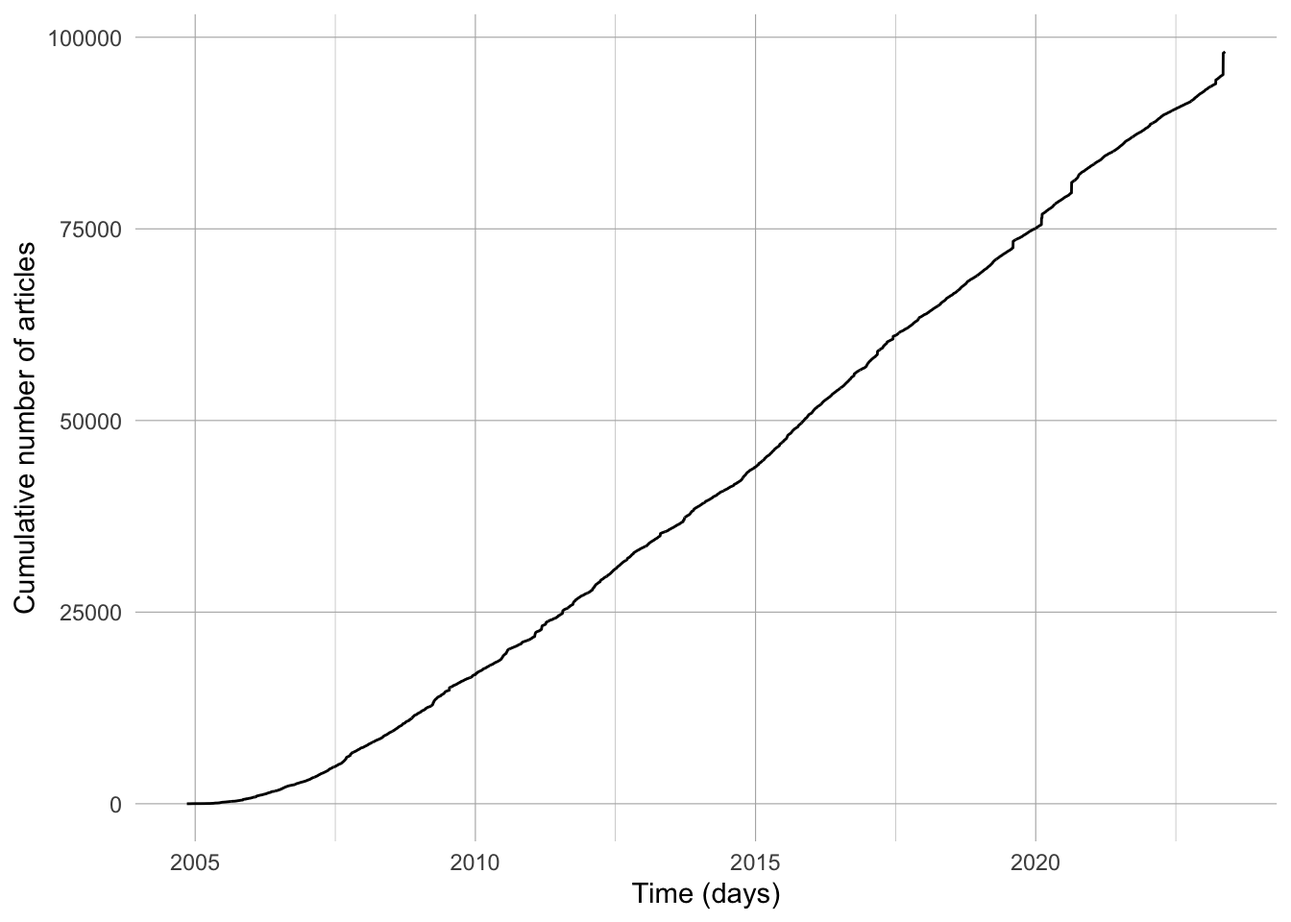
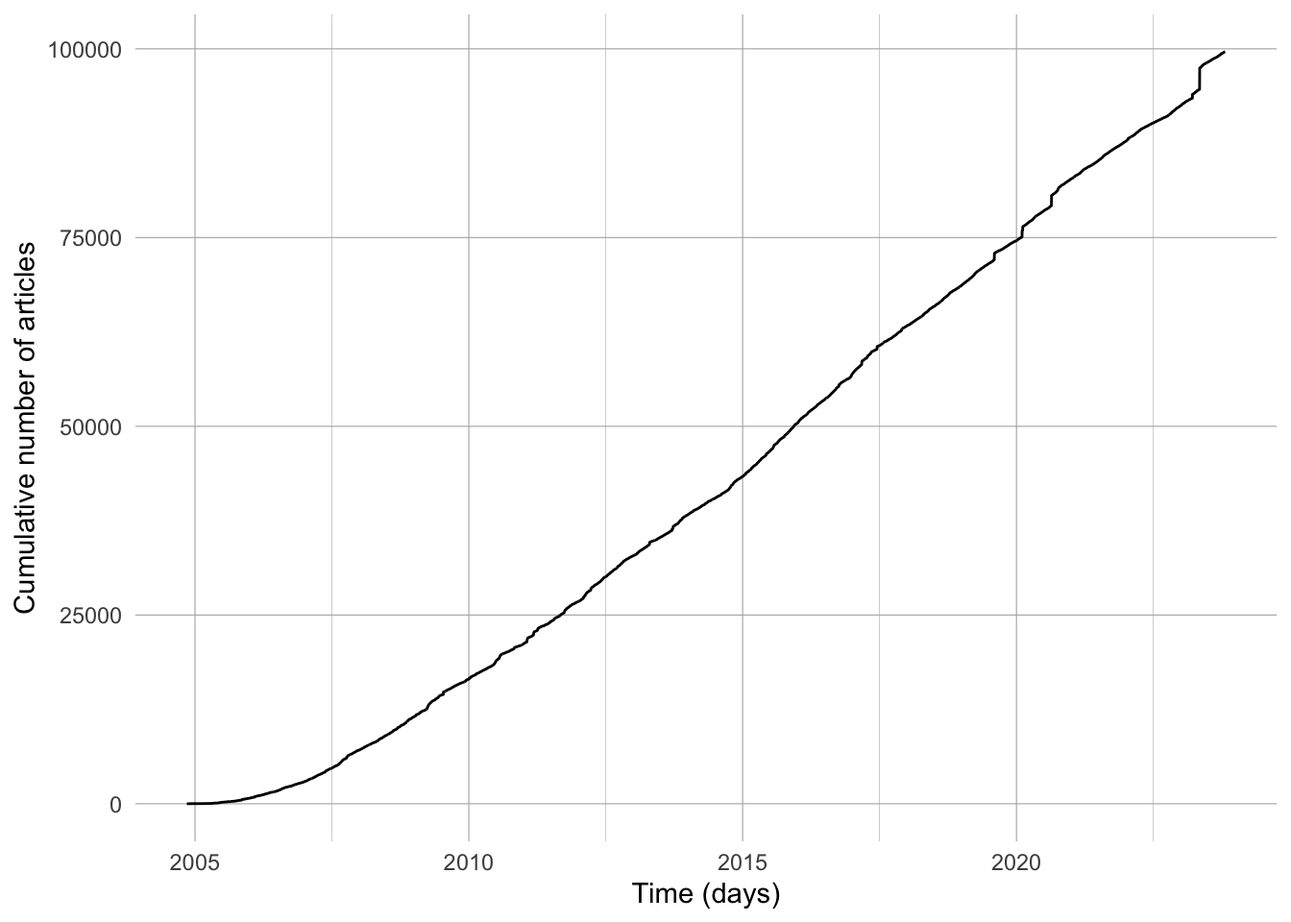
reported regenerated with cleaned data

diff --git a/docs/who-counts.html b/docs/who-counts.html
@@ -242,14 +242,14 @@ div.csl-indent {
 </div>
 </div>
 </div>
-<p>Category:Australian people has 9,220 subcategories, many of which are even farther from the root than the staff of UTS. We can get a sense of how vast this structure is by taking <a href="https://en.wikipedia.org/wiki/Distance_(graph_theory)#Related_concepts">diameter</a> of the category graph. In this case, the diameter is 11, which means that the most distant subcategory of <code>Category:Australian people</code> is 11 steps away. Such distant nodes are called ‘eccentric’ in graph theory. In this case, the most distant subcategory truly is eccentric: <a href="https://en.wikipedia.org/wiki/Category:Custard%20(band)%20compilation%20albums">Category:Custard (band) compilation albums</a> does not include articles about ‘Australian people’ at all, but about indie rock records. This case is extreme. The case of UTS staffmembers is more typical. If we consider all the articles that have been placed in <code>Category:Australian people</code> or its subcategories, we find that the subcategories used are on average 3.12 steps away from the root, with a standard deviation of 0.98. In the typical case, when an editor adds an article to an ‘Australian people’ subcategory, the subcategory is 2-4 steps away from the root. It seems likely that editors are mostly unaware of the category graph as a whole. Editors work locally, trying to find the best categorisations for their articles, while Wikipedia’s systems work globally, enforcing the hierarchical logic of the enormous and usually invisible category graph.</p>
+<p>Category:Australian people has 9,493 subcategories, many of which are even farther from the root than the staff of UTS. We can get a sense of how vast this structure is by taking <a href="https://en.wikipedia.org/wiki/Distance_(graph_theory)#Related_concepts">diameter</a> of the category graph. In this case, the diameter is 11, which means that the most distant subcategory of <code>Category:Australian people</code> is 11 steps away. Such distant nodes are called ‘eccentric’ in graph theory. In this case, the most distant subcategory truly is eccentric: <a href="https://en.wikipedia.org/wiki/Category:Custard%20(band)%20compilation%20albums">Category:Custard (band) compilation albums</a> does not include articles about ‘Australian people’ at all, but about indie rock records. This case is extreme. The case of UTS staffmembers is more typical. If we consider all the articles that have been placed in <code>Category:Australian people</code> or its subcategories, we find that the subcategories used are on average 3.17 steps away from the root, with a standard deviation of 0.95. In the typical case, when an editor adds an article to an ‘Australian people’ subcategory, the subcategory is 2-4 steps away from the root. It seems likely that editors are mostly unaware of the category graph as a whole. Editors work locally, trying to find the best categorisations for their articles, while Wikipedia’s systems work globally, enforcing the hierarchical logic of the enormous and usually invisible category graph.</p>
 <p>If <code>Category:Australian people</code> can include articles about indie rock albums, then the question arises: How many of the articles are actually biographies of people connected to Australia? If we can isolate these articles, then more detailed questions become possible: How are different kinds of people represented among Wikipedia’s ‘Australian’ biographies? Wikipedia itself does not clearly distinguish biographies from other kinds of article. To answer this question, we turn to its sister-project, Wikidata.</p>
 </section>
 <section id="wikidata-the-query-engine" class="level3">
 <h3 class="anchored" data-anchor-id="wikidata-the-query-engine">Wikidata: The query engine</h3>
 <p>To build a picture of the Australian <em>people</em> in Wikipedia, we queried Wikidata in two different ways.</p>
 <ol type="1">
-<li>We queried Wikidata for items representing Australian people</li>
+<li>We queried Wikidata for items representing Australian people, and then checked to see if those people had a biographical article in Wikipedia</li>
 <li>We fetched the Wikidata item for each article in <code>Category:Australian people</code>, and checked to see if the item was labelled ‘human’ in Wikidata</li>
 </ol>
 <p>It turns out that these two approaches return different sets of people, as we explain below. There are many people who have Wikipedia articles in <code>Category:Australian people</code> who are not clearly marked as ‘Australian’ in Wikidata. Likewise, there are many people who are marked as ‘Australian’ in Wikidata, but who lack a Wikipedia article in <code>Category:Australian people</code>.</p>
@@ -259,10 +259,9 @@ div.csl-indent {
 <li>They can be explicitly linked to Australia (<a href="https://www.wikidata.org/wiki/Q408">Q408</a>) through properties such as citizenship (<a href="https://www.wikidata.org/wiki/Property:P27">P27</a>), place of birth (<a href="https://www.wikidata.org/wiki/Property:P19">P19</a>) or place of death (<a href="https://www.wikidata.org/wiki/Property:P570">P570</a>); or</li>
 <li>They can be implicitly linked to Australia by being linked to a known database of Australians, such as the Dictionary of Australian Biography (<a href="https://www.wikidata.org/wiki/Property:P1907">P1907</a>), Indigenous Australia (<a href="https://www.wikidata.org/wiki/Property:P9246">P9246</a>), or Convict Records of Australia (<a href="https://www.wikidata.org/wiki/Property:P9919">P9919</a>)</li>
 </ol>
-<p>We queried Wikidata by 51 properties that denote Australianness. Together, these properties are linked to 75215 unique humans in the database.</p>
-<p>The Wikidata dataset and the Wikipedia dataset do not perfectly overlap. There are 14,509 people we found in our queries to Wikidata who lack a Wikipedia article in <code>Category:Australian People</code>. Likewise, there are 37,401 articles in <code>Category:Australian people</code> which did not turn up when we queried Wikidata. Of course, many of these 37,401 articles do not represent individual people. We have already seen that one of the articles represents a compilation album by the Melbourne band Custard. There are also many lists, general articles about groups of people and other miscellaneous articles in <code>Category:Australian people</code>. How can the datasets be compared?</p>
-<p>To make the datasets comparable, we filtered out non-biographies from the Wikipedia dataset. To do this, we retrieved the Wikidata item for each Wikipedia article, and checked if it had property P31(Q5), ‘instance of: human’. This left 80,212 Wikipedia articles from <code>Category:Australian people</code> which we were confident are biographies. These biographies overlap substantially, but not perfectly, with the set of people we found on Wikidata by querying Australian properties (<a href="#fig-biography-overlap-table">Figure&nbsp;3</a>).</p>
-<p><strong>MF: The table is currently incorrect. There should be another 10,000 or so in the bottom-left cell. In my various efforts to combine and co-ordinate our different datasets, I have left out the ~11,000 Wikidata records that didn’t make it into our original queries to Wikidata. I need to get the page assessment data for these and re-integrate them into our combined dataset.</strong></p>
+<p>We queried Wikidata by 45 properties that denote Australianness. Using these properties, we were able to identify 85,773 Wikidata items representing Australian people. Of these Wikidata items, 63,692 items had a corresponding Wikipedia article.</p>
+<p>We then used Wikidata to determine which of the 110,296 articles in <code>Category:Australian people</code> were biographies (as opposed to articles about events, things, or groups of people). To do this, we fetched the Wikidata item for each Wikipedia article in the dataset, then checked to see if it had property P31(Q5), ‘instance of: human’. When we did this, 81,493 articles were left.</p>
+<p>The two datasets overlap substantially, but not completely (<a href="#fig-biography-overlap-table">Figure&nbsp;3</a>). There are thousands of biographical articles in <code>Category:Australian people</code> whose Wikidata items do not clearly identify them as ‘Australian’. Likewise, there are hundreds of Wikidata items whose corresponding Wikipedia articles do <em>not</em> appear in <code>Category:Australian people</code>, even though the Wikidata item has P31(Q5), ‘instance of:human’, and also contains one or more ‘markers of Australianness’.</p>
 <div class="cell">
 <div id="fig-biography-overlap-table" class="quarto-figure quarto-figure-center anchored">
 <figure class="figure">
@@ -270,47 +269,37 @@ div.csl-indent {
 <table class="table table-striped" style="margin-left: auto; margin-right: auto;">
 <thead>
 <tr>
-<th style="empty-cells: hide;border-bottom:hidden;" colspan="1">
-</th>
-<th style="border-bottom:hidden;padding-bottom:0; padding-left:3px;padding-right:3px;text-align: center; " colspan="2">
-<div style="border-bottom: 1px solid #ddd; padding-bottom: 5px; ">
-In Wikidata set?
-</div>
-</th>
-</tr>
-<tr>
 <th style="text-align:left;">
-In Wikipedia Set?
+Dataset
 </th>
 <th style="text-align:right;">
-TRUE
-</th>
-<th style="text-align:right;">
-FALSE
+Number of Articles
 </th>
 </tr>
 </thead>
 <tbody>
 <tr>
 <td style="text-align:left;">
-TRUE
+Person only found by querying Wikidata
 </td>
 <td style="text-align:right;">
-61697
-</td>
-<td style="text-align:right;">
-18515
+1520
 </td>
 </tr>
 <tr>
 <td style="text-align:left;">
-FALSE
+Person only found in <code>Category:Australian people</code>
 </td>
 <td style="text-align:right;">
-1525
+19321
+</td>
+</tr>
+<tr>
+<td style="text-align:left;">
+Person found in both datasets
 </td>
 <td style="text-align:right;">
-NA
+62172
 </td>
 </tr>
 </tbody>
@@ -329,7 +318,7 @@ NA
 <p>We have seen how difficult it is to judge whether someone is ‘Australian’. This difficulty has two sides: <strong>space</strong> and <strong>time</strong>.</p>
 <p>In <strong>space</strong>, it is difficult to judge whether a person is close enough to Australia to count as Australian. At one end is someone who is born, lives and dies in Australia, such as <a href="https://en.wikipedia.org/wiki/Oodgeroo_Noonuccal">Oodgeroo Noonuccal</a>. At the other end of the spectrum is someone who has only a passing cultural or economic connection to Australia, such as <a href="https://en.wikipedia.org/wiki/Steve_Wozniak">Steve Wozniak</a>.</p>
 <p>In <strong>time</strong>, it is difficult to judge when in history it becomes reasonable to describe someone as ‘Australian’. The term ‘Terra Australis’ (‘Southern Land’) was coined in the 16th century, before Europeans knew about either Australia or Antarctica. In the end, neither Australia nor Antarctica matched European expectations about the ‘Southern Land’, though Australia, being the first that Europeans visited, acquired the name. New South Wales was invaded by the British in 1788. The term ‘Australia’ was substituted for ‘Terra Australis’ in 1813. The colonies of Australia federated into a single Commonwealth in 1901. The resulting Commonwealth of Australia only achieved full independence from Britain in 1988. Of course, human occupation predates the British invasion by tens of thousands of years. In the course of that human occupation, the very shape of the Australian landmass has varied. 10,000 years ago, the Australian mainland, Papua New Guinea and Tasmania formed a single contiguous landmass that geologers call <a href="https://en.wikipedia.org/wiki/Sahul">Sahul</a>. Are all the people who occupied Sahul at any point in time ‘Australians’? Or can only residents or citizens of the country ‘Australia’ be so named? Like space, time wreaks havoc on the category ‘Australian’.</p>
-<p>Wikidata’s contributors are aware of these difficulties. The simplest way to mark someone as ‘Australian’ in Wikidata is to give ‘Australia’ as the person’s ‘country of citizenship’ (<a href="https://www.wikidata.org/wiki/Property:P27">P27</a>). Our dataset contains 58,846 ‘Australian citizens’ according to P27. A glance at <a href="https://www.wikidata.org/wiki/Property_talk:P27">the Talk page for P27</a> reveals that Wikimedians are keenly aware of the difficulties of space and time.</p>
+<p>Wikidata’s contributors are aware of these difficulties. The simplest way to mark someone as ‘Australian’ in Wikidata is to give ‘Australia’ as the person’s ‘country of citizenship’ (<a href="https://www.wikidata.org/wiki/Property:P27">P27</a>). Our dataset contains 59,259 ‘Australian citizens’ according to P27. A glance at <a href="https://www.wikidata.org/wiki/Property_talk:P27">the Talk page for P27</a> reveals that Wikimedians are keenly aware of the difficulties of space and time.</p>
 <p>The user Ghouston clearly clearly articulated the problem of time in a post from 2018:</p>
 <blockquote class="blockquote">
 <p>It’s not easy. Australian citizenship didn’t exist before 1949, yet Australia as a federation has existed since 1901 and the term “Australian” was in use in the 19th century. To say that the United Kingdom was created in 1927 or the Netherlands perhaps in 1815 or 1945 or China in 1949 is to ignore much of the history of these countries as states.</p>
@@ -363,7 +352,7 @@ The ADB includes anyone who has made a significant contribution to the Australia
 </blockquote>
 <p>The AusStage database, meanwhile, <a href="https://www.ausstage.edu.au/pages/learn/data-scope">records any person who ‘contributed’ in some way to a theatrical performance in Australia, or to an overseas performance of an Australian theatrical work</a>. AusStage and the Australian Dictionary of Biography provide very broad markers of Australianness. By contrast, the <a href="https://www.parliament.vic.gov.au/about/people-in-parliament/re-member/form/27">Re-Member database of the Parliament of Victoria</a> provides a stricter marker of a person’s Australianness. To appear in Re-Member, a person must be a former member of the Parliament of Victoria. We identified dozens of other databases that indicated ‘Australianess’ in Wikidata. When a Wikimedian links a person to the Australian Dictionary of Biography (<a href="https://www.wikidata.org/wiki/Property:P1907">P1907</a>), AusStage (<a href="https://www.wikidata.org/wiki/Property:P8292">P8292</a>), Re-Member (<a href="https://www.wikidata.org/wiki/Property:P8633">P8633</a>), or some other database of Australians, the linked database will encode a different answer to the question ‘Who Counts as Australian?’</p>
 <p>This raises the question: how do these different properties overlap in Wikidata? Are there some markers of Australianness that tend to go together? Are there others that exclude each other? For example, we might assume that if a person is linked to the Convict Records of Australia database (<a href="https://www.wikidata.org/wiki/Property:P9919">P9919</a>), they should not usually have Australia as their place of birth, since the great majority of convicts were transported from Britain and Ireland, rather than between the colonies.</p>
-<p>To explore the connection between different markers of Australianness, we generated a correlation plot between the 20 most common Wikidata properties of the 51 that we queried (<a href="#fig-wikidata-property-matrix">Figure&nbsp;5</a>). A red square indicates a positive correlation between two Wikidata properties: for example, a person with an <a href="https://www.wikidata.org/wiki/Property:P1907">Australian Dictionary of Biography ID</a> (<code>aus_dictionary_bio</code>) is highly likely also to have a <a href="https://www.wikidata.org/wiki/Property:P9159">People Australia ID</a> (<code>people_of_aus</code>). A blue square indicates a negative correlation between two properties: for example, a person marked as a citizen of Australia is highly unlikely to have been assigned an <a href="https://www.wikidata.org/wiki/Property:P3546">AustralianFootball.com ID</a> (<code>aus_football</code>).</p>
+<p>To explore the connection between different markers of Australianness, we generated a correlation plot between the 20 most common Wikidata properties of the 45 that we queried (<a href="#fig-wikidata-property-matrix">Figure&nbsp;5</a>). A red square indicates a positive correlation between two Wikidata properties: for example, a person with an <a href="https://www.wikidata.org/wiki/Property:P1907">Australian Dictionary of Biography ID</a> (<code>aus_dictionary_bio</code>) is highly likely also to have a <a href="https://www.wikidata.org/wiki/Property:P9159">People Australia ID</a> (<code>people_of_aus</code>). A blue square indicates a negative correlation between two properties: for example, a person marked as a citizen of Australia is highly unlikely to have been assigned an <a href="https://www.wikidata.org/wiki/Property:P3546">AustralianFootball.com ID</a> (<code>aus_football</code>).</p>
 <div class="cell">
 <div class="cell-output-display">
 <div id="fig-wikidata-property-matrix" class="quarto-figure quarto-figure-center anchored">
@@ -376,13 +365,13 @@ The ADB includes anyone who has made a significant contribution to the Australia
 </div>
 <p>Only a few of the properties are correlated, and there are only a couple of strong correlations in the matrix.</p>
 <p>Many of the strong correlations reflect relationships between the databases on which Wikidata relies for information. For example, it is not surprising to see a strong correlation between Australian Dictionary of Biography ID (<code>aus_dictionary_bio</code>), Labour Australia ID (<code>labour_of_aus</code>), People Australia ID (<code>people_of_aus</code>) and Obituaries of Australia ID (<code>obit_of_aus</code>). These four databases are all run by the National Centre for Biography at the Australian National University, and are tightly interconnected. Every person in Obituaries Australia, Labour Australia or the ADB automatically receives a People Australia ID.</p>
-<p>Other strong correlations represent a similarity of subject-matter. For instance, three Wikidata properties link to databases of Australian artists (<code>nat_gallery_vic_artist</code>, <code>aus_printmakers</code>, <code>design_and_art_aus</code> [bug - wrongly appears here as <code>Vic_parliament_aus</code>]). A person who has an ID in one of these external databases is likely to have an ID available in the others. Similar explanations apply to sporting databases (<code>atheltics_aus</code> and <code>aus_olympics</code>) and newspaper databases (<code>trove_aus</code>, <code>obit_of_aus</code>).</p>
+<p>Other strong correlations represent a similarity of subject-matter. For instance, three Wikidata properties link to databases of Australian artists (<code>nat_gallery_vic_artist</code>, <code>aus_printmakers</code>, <code>design_and_art_aus</code>). A person who has an ID in one of these external databases is likely to have an ID available in the others. Similar explanations apply to sporting databases (<code>atheltics_aus</code> and <code>aus_olympics</code>) and newspaper databases (<code>obit_of_aus</code>).</p>
 <p>Overall, the lack of correlation between the properties reflects the heterogeneous nature of Wikidata. It is a vast and exceptionally flexible database, and it is possible for different communities of contributors to build up data in quite unrelated areas. This is illustrated nowhere better than in the negative correlation between AustralianFootball.com ID and the other Wikidata properties. Fans of Australian Rules Football have painstakingly entered data about hundreds of professional footballers into Wikidata, without troubling to mark these records with other properties such as Trove ID or citizenship of Australia. The shape of Wikidata could easily change if another committed group of editors decided to document their own subculture in the database. ‘Australian’ is an extremely uneven and inconsistent idea in Wikidata.</p>
 </section>
 <section id="gender" class="level3">
 <h3 class="anchored" data-anchor-id="gender">Gender</h3>
 <p>Although it is impossible to provide a unitary definition for ‘Australian’ in Wikidata and Wikipedia, we have shown that it is possible to derive a large list of people who are marked as ‘Australian’ in some way across the encyclopaedia and database. What is the composition of this list? We first consider the gendered composition of the dataset, before turning to the representation of <a href="#indigeneity">Indigenous Australians and Torres Strait Islander peoples</a> in the next section.</p>
-<p>To determine the gender of a person in our dataset, we rely on the Wikidata property <a href="https://www.wikidata.org/wiki/Property:P21">P21:Sex or gender</a>. In our dataset, nearly all records have a sex or gender recorded (<a href="#fig-genders-in-dataset">Figure&nbsp;6</a>). Only 26 records lack a <code>P21</code> statement about their sex or gender, along with a single record (for the <a href="http://www.wikidata.org/entity/Q3374318">Port Jackson Painter</a>), whose gender is unknown and whose sex or gender currently appears as the unsightly <em>http://www.wikidata.org/.well-known/genid/0de4c5a80b57262088a20354b318e7f9</em>.</p>
+<p>To determine the gender of a person in our dataset, we rely on the Wikidata property <a href="https://www.wikidata.org/wiki/Property:P21">P21:Sex or gender</a>. In our dataset, nearly all records have a sex or gender recorded (<a href="#fig-genders-in-dataset">Figure&nbsp;6</a>). Only 2065 records lack a <code>P21</code> statement about their sex or gender, along with a single record (for the <a href="">Port Jackson Painter</a>), whose gender is unknown and whose sex or gender currently appears as the unsightly **.</p>
 <div class="cell">
 <div id="fig-genders-in-dataset" class="quarto-figure quarto-figure-center anchored">
 <figure class="figure">
@@ -401,10 +390,18 @@ Total
 <tbody>
 <tr>
 <td style="text-align:left;">
+faʻafafine
+</td>
+<td style="text-align:right;">
+1
+</td>
+</tr>
+<tr>
+<td style="text-align:left;">
 female
 </td>
 <td style="text-align:right;">
-16205
+23557
 </td>
 </tr>
 <tr>
@@ -412,7 +409,7 @@ female
 genderfluid
 </td>
 <td style="text-align:right;">
-6
+7
 </td>
 </tr>
 <tr>
@@ -420,15 +417,7 @@ genderfluid
 genderqueer
 </td>
 <td style="text-align:right;">
-1
-</td>
-</tr>
-<tr>
-<td style="text-align:left;">
-http://www.wikidata.org/.well-known/genid/0de4c5a80b57262088a20354b318e7f9
-</td>
-<td style="text-align:right;">
-1
+3
 </td>
 </tr>
 <tr>
@@ -436,7 +425,7 @@ http://www.wikidata.org/.well-known/genid/0de4c5a80b57262088a20354b318e7f9
 intersex
 </td>
 <td style="text-align:right;">
-2
+3
 </td>
 </tr>
 <tr>
@@ -452,15 +441,7 @@ intersex woman
 male
 </td>
 <td style="text-align:right;">
-65432
-</td>
-</tr>
-<tr>
-<td style="text-align:left;">
-male organism
-</td>
-<td style="text-align:right;">
-2
+79386
 </td>
 </tr>
 <tr>
@@ -468,7 +449,7 @@ male organism
 non-binary
 </td>
 <td style="text-align:right;">
-25
+32
 </td>
 </tr>
 <tr>
@@ -476,7 +457,7 @@ non-binary
 trans man
 </td>
 <td style="text-align:right;">
-4
+5
 </td>
 </tr>
 <tr>
@@ -484,7 +465,7 @@ trans man
 trans woman
 </td>
 <td style="text-align:right;">
-29
+31
 </td>
 </tr>
 <tr>
@@ -492,7 +473,7 @@ trans woman
 transgender
 </td>
 <td style="text-align:right;">
-3
+2
 </td>
 </tr>
 <tr>
@@ -500,7 +481,7 @@ transgender
 NA
 </td>
 <td style="text-align:right;">
-26
+2065
 </td>
 </tr>
 </tbody>
@@ -511,7 +492,7 @@ NA
 </div>
 </div>
 <p><span class="citation" data-cites="weathington_queer_2023">Weathington and Brubaker (<a href="#ref-weathington_queer_2023" role="doc-biblioref">2023</a>)</span> have strongly critiqued Wikidata’s representation of sex and gender, observing that “Queer identities are recorded in a database in clunky, inaccurate, or self-contradictory ways” [p.&nbsp;2] and that the database ignores the individual’s right to determine their own sexual presentation. Nonetheless, we are compelled to rely on Wikidata’s representation of individuals’ sex and/or gender if we wish to assess its representation of human diversity in Australia. To this end, we categorise our dataset into three broad groups: <code>Male</code>, <code>Female</code> and <code>Trans, Non-Binary or Intersex</code>. While we may assume that most of those marked as ‘male’ or ‘female’ are <em>cis</em>-male or -female, we cannot determine this from the available data, and so opt for the less specific ‘male’ and ‘female’.</p>
-<p><code>Female</code> biographies are clearly under-represented among Wikipedia’s Australian articles (<a href="#fig-genders-in-dataset">Figure&nbsp;6</a>). The gap between <code>Male</code> and <code>Female</code> biographies appears to have remained constant over time (<a href="#fig-gender-by-page-creation">Figure&nbsp;7</a>). Viewing the data on a logarithmic scale emphasise the parallel track of <code>Male</code> and <code>Female</code> biographies in Australian Wikipedia, while also allowing us to visualise the similar growth of <code>Trans, Non-Binary or Intersex</code> biographies (<a href="#fig-gender-by-page-creation-log">Figure&nbsp;8</a>).</p>
+<p><code>Female</code> biographies are clearly under-represented among Wikipedia’s Australian articles. (<a href="#fig-genders-in-dataset">Figure&nbsp;6</a>) shows all Wikipedia biographies that appear in <code>Category:Australian people</code>, or whose Wikidata item contains a marker of Australianness, categories by gender. The gap between <code>Male</code> and <code>Female</code> biographies appears to have remained constant over time (<a href="#fig-gender-by-page-creation">Figure&nbsp;7</a>). Viewing the data on a logarithmic scale emphasise the parallel track of <code>Male</code> and <code>Female</code> biographies in Australian Wikipedia, while also allowing us to visualise the similar growth of <code>Trans, Non-Binary or Intersex</code> biographies (<a href="#fig-gender-by-page-creation-log">Figure&nbsp;8</a>).</p>
 <div class="cell">
 <div class="cell-output-display">
 <div id="fig-gender-by-page-creation" class="quarto-figure quarto-figure-center anchored">
@@ -534,6 +515,13 @@ NA
 </div>
 <p>Not only are male, female and LGBTQI+ Australians represented in different numbers in the encyclopaedia, they are represented by different words. To show this, we downloaded the introductions of each article in the encyclopaedia, and used the tf-idf statistic to determine which words were most distinctive for each group of biographies. Which words tend to appear more often in the introductions of articles about <code>Male</code>, <code>Female</code> and <code>Trans, Non-Binary and Intersex</code> Australians?</p>
 <div class="cell">
+<div class="cell-output cell-output-stderr">
+<pre><code>Warning in left_join(., gender_data, by = "pageid"): Detected an unexpected many-to-many relationship between `x` and `y`.
+ℹ Row 681 of `x` matches multiple rows in `y`.
+ℹ Row 81494 of `y` matches multiple rows in `x`.
+ℹ If a many-to-many relationship is expected, set `relationship =
+  "many-to-many"` to silence this warning.</code></pre>
+</div>
 <div class="cell-output-display">
 <div id="fig-intro-words-by-gender" class="quarto-figure quarto-figure-center anchored">
 <figure class="figure">
@@ -579,6 +567,9 @@ Watchers (mean)
 <th style="text-align:left;">
 Weeks since last edit
 </th>
+<th style="text-align:left;">
+Good/Featured
+</th>
 </tr>
 </thead>
 <tbody>
@@ -590,19 +581,22 @@ Trans, Non-Binary or Intersex
 69
 </td>
 <td style="text-align:left;">
-13919.8
+13644.7
 </td>
 <td style="text-align:left;">
-423.3
+424.6
 </td>
 <td style="text-align:left;">
-162.6
+164.2
 </td>
 <td style="text-align:left;">
-37.4
+37.2
 </td>
 <td style="text-align:left;">
-6
+8.5
+</td>
+<td style="text-align:left;">
+1.4%
 </td>
 </tr>
 <tr>
@@ -610,22 +604,25 @@ Trans, Non-Binary or Intersex
 Female
 </td>
 <td style="text-align:left;">
-16205
+16560
 </td>
 <td style="text-align:left;">
-1502.2
+1391.2
 </td>
 <td style="text-align:left;">
-106.5
+105.5
 </td>
 <td style="text-align:left;">
-50.5
+49.9
 </td>
 <td style="text-align:left;">
-2.9
+2.8
 </td>
 <td style="text-align:left;">
-20.2
+22.7
+</td>
+<td style="text-align:left;">
+0.6%
 </td>
 </tr>
 <tr>
@@ -633,13 +630,13 @@ Female
 Male
 </td>
 <td style="text-align:left;">
-65432
+66375
 </td>
 <td style="text-align:left;">
-906.2
+882.8
 </td>
 <td style="text-align:left;">
-102.9
+103.2
 </td>
 <td style="text-align:left;">
 49.5
@@ -648,7 +645,10 @@ Male
 2.1
 </td>
 <td style="text-align:left;">
-27.2
+31.5
+</td>
+<td style="text-align:left;">
+0.6%
 </td>
 </tr>
 </tbody>
@@ -658,7 +658,7 @@ Male
 </figure>
 </div>
 </div>
-<p><a href="#fig-assessment-data-by-gender">Figure&nbsp;10</a> reveals a stark contrast between readers and editors of the encylopaedia. Editors spend roughly equal effort on the <code>Male</code> and <code>Female</code> biographies. The number of revisions for each biography, the number of editors, and the time elapsed since last edit are all similar. The result is that Wikipedia’s editors expend a roughly 4 times the effort maintaining <code>Male</code> biographies on Wikipedia than <code>Female</code> ones. Readers of the encyclopaedia, however, have different priorities. Although view biographies of <code>Male</code> Australians more often than <code>Female</code>, an individual <code>Female</code> biography can expect to be viewed roughly 1.7 times more often than any given biography of a <code>Male</code> Australian.</p>
+<p><a href="#fig-assessment-data-by-gender">Figure&nbsp;10</a> reveals a stark contrast between readers and editors of the encylopaedia. Editors spend roughly equal effort on the <code>Male</code> and <code>Female</code> biographies. The number of revisions for each biography, the number of editors, and the time elapsed since last edit are all similar. The result is that Wikipedia’s editors expend a roughly 4 times the effort maintaining <code>Male</code> biographies on Wikipedia than <code>Female</code> ones. Readers of the encyclopaedia, however, have different priorities. Although view biographies of <code>Male</code> Australians more often than <code>Female</code>, an individual <code>Female</code> biography can expect to be viewed roughly 1.6 times more often than any given biography of a <code>Male</code> Australian.</p>
 <p>Biographies of <code>Trans, Non-Binary or Intersex</code> Australians, meanwhile, receive a great deal of attention from both editors and readers compared to biographies in the other groups. Given there are only 69 biographies in this group, the numbers are difficult to compare. Editors probably pay extra attention to these pages because they are more prone to vandalism by internet trolls. There would likely be subsets of the <code>Male</code> and <code>Female</code> pages at risk of similar vandalism, which would have a similar pageview and edit profile. It is nonetheless sadly predictable that biographies of <code>Trans, Non-Binary or Intersex</code> Australians should have such high page activity on Wikipedia today.</p>
 <p>In conclusion, it seems that the gender gap on Australian Wikipedia is wide, and is not currently narrowing. Despite the under-representation of women in the encyclopaedia, editors appear to devote equal attentions both to <code>Male</code> and <code>Female</code> biographies. The number of non-cisgender biographies appears to be very small—though it is possible that many non-cisgender Australians have fallen into the <code>Male</code> and <code>Female</code> groups in our analysis due to the crude categorisation method. This small group of non-cisgender biographies receieve a great deal of attention. The most likely reason would appear to be vandalism, though we have not investigated this hypothesis. Wikipedia appears to reflect aspects of Australian gender culture, though the gender gap is probably inflated by the encyclopaedia’s strong focus on sport and entertainment, which are highly gendered even by comparison to other fields of social endeavour. This gender gap is reflected in the encyclopaedia’s language as well as in the sheer number of articles and editors’ activities upon them. It appears likely that Wikipedia is behind Australian society generally in its representation of women, given that biographies of <code>Female</code> Australians are so much more likely to be viewed than <code>Male</code> biographies. If more <code>Female</code> Australians were represented in the encylopaedia, would this ratio change? If the number of <code>Male</code> and <code>Female</code> articles were equal, would readers still prefer to read <code>Female</code> Australians’ biographies, or would their average interest decline as the total increased? At this point, we can only speculate.</p>
 </section>
@@ -694,7 +694,7 @@ Male
 <p>There is a second notable difference between the category graphs for Australia and Mexico. We have seen that Australia’s <code>Category:Australian people of indigenous peoples descent</code> is used to classify people who are indigenous anywhere. The analogous Mexican category, <a href="https://en.wikipedia.org/w/index.php?title=Category:Mexican_people_of_indigenous_peoples_descent&amp;oldid=812065156"><code>Category:Mexican people of indigenous peoples descent</code></a>, is used exclusively to classify indigenous peoples of Mexico itself. <a href="https://en.wikipedia.org/wiki/Category:Brazilian_people_by_ethnic_or_national_origin">Brazil</a> and <a href="https://en.wikipedia.org/wiki/Category:Brazilian_people_by_ethnic_or_national_origin">Argentina</a> similarly reserve their ‘indigenous peoples’ category for their own indigenous peoples.</p>
 <p>Australia is not entirely alone. The subgraph for <a href="https://en.wikipedia.org/wiki/Category:Japanese_people_by_ethnic_or_national_origin"><code>Category:Japanese people by ethnic or national origin</code></a> also obfuscates the indigeneity of Japan’s indigenous peoples. There is no explicit category for Japanese people ‘of indigenous descent’. Instead, <a href="https://en.wikipedia.org/wiki/Category:Japanese_Ainu_people"><code>Category:Japanese Ainu people</code></a> is included as a subcategory of <a href="https://en.wikipedia.org/wiki/Category:Japanese_people_of_East_Asian_descent"><code>Category:Japanese people of East Asian descent</code></a>. In this way, the link between Ainu people and the region is locally marked in the category graph, but one must look elsewhere in the graph to discover that Ainu people are <em>indigenous</em> to Japan.</p>
 <p>It is clear that quantifying indigenous representation in Wikipedia is a fraught exercise. Scholars are well advised to carefully consider how indigeneity is understood in different parts of the world, and then to pay close attention to the particular structure of ethnic and national classification in any particular part of Wikipedia.</p>
-<p>Nonetheless, we can use the category graph to estimate the number of biographies of Indigenous Australians in Wikipedia. <a href="#fig-indigenous-growth-wikipedia">Figure&nbsp;13</a> suggests that in recent years, Wikipedians may have begun to address the representation gap between Indigenous and settler Australians. <a href="#fig-indigenous-growth-wikipedia">Figure&nbsp;13</a> shows the proportaion of biographies under <code>Category:Australian people of Indigenous Australian descent</code> as a proportion of all biographies in <code>Category:Australian people</code>. The representation gap for Indigenous Australians is not so stark as the representation gap for non-male Australians. According to the Australian Census, the number of Indigenous Australians <a href="https://www.abs.gov.au/statistics/people/people-and-communities/snapshot-australia/2021#aboriginal-and-torres-strait-islander-communities">grew from 2.5% of Australia’s population to 3.2% between 2011 and 2021.</a>. In our estimate, the proportion of Indigenous biographies in <code>Category:Australian people</code>, went from 2.35% on January 1 2011 to 2.1% on January 1 2021. At the time of our data collection, the proportion had risen again to 2.2%. Although comparison with the census would suggest that Wikipedia under-represents Indigenous Australians, the representation gap is currently narrowing.</p>
+<p>Nonetheless, we can use the category graph to estimate the number of biographies of Indigenous Australians in Wikipedia. <a href="#fig-indigenous-growth-wikipedia">Figure&nbsp;13</a> suggests that in recent years, Wikipedians may have begun to address the representation gap between Indigenous and settler Australians. <a href="#fig-indigenous-growth-wikipedia">Figure&nbsp;13</a> shows the proportaion of biographies under <code>Category:Australian people of Indigenous Australian descent</code> as a proportion of all biographies in <code>Category:Australian people</code>. The representation gap for Indigenous Australians is not so stark as the representation gap for non-male Australians. According to the Australian Census, the number of Indigenous Australians <a href="https://www.abs.gov.au/statistics/people/people-and-communities/snapshot-australia/2021#aboriginal-and-torres-strait-islander-communities">grew from 2.5% of Australia’s population to 3.2% between 2011 and 2021.</a>. In our estimate, the proportion of Indigenous biographies in <code>Category:Australian people</code>, went from 2.35% on January 1 2011 to 2.09% on January 1 2021. At the time of our data collection, the proportion had risen again to 2.21%. Although comparison with the census would suggest that Wikipedia under-represents Indigenous Australians, the representation gap is currently narrowing.</p>
 <div class="cell">
 <div class="cell-output-display">
 <div id="fig-indigenous-growth-wikipedia" class="quarto-figure quarto-figure-center anchored">
@@ -708,7 +708,7 @@ Male
 <p>The situation in Wikidata is made simple by the fact that it has no system for ethnic or national classification. There are two main markers of indigenity for Australians in Wikidata:</p>
 <ol type="1">
 <li>A person’s ‘description’ may mention their indigeneity. For example, <a href="https://www.wikidata.org/w/index.php?title=Q817828&amp;oldid=1617736683">Bennelong</a> is described as an ‘Eora interlocutor with the British in Australia and the United Kingdom’. To obtain an estimate of Indigenous Australians in the Wikidata data, we have used the crude method of seraching for known keywords, including ‘indigneous’, ‘aboriginal’ and ‘eora’, then scanning the results by eye to exclude false positives (for example <a href="">Judith Wright</a>, who is described as an ‘Indigenous rights activist’ on Wikidata). <strong>TODO: Kelly, I think we need to do this again using the additional 18000 records from Category:Australian People</strong></li>
-<li>A person may be linked to a record in the <a href="https://ia.anu.edu.au/">Indigenous Australia</a> database (<a href="https://www.wikidata.org/wiki/Property:P9246">P9246</a>). At the time of writing, the Indigenous Australia database contains <a href="https://ia.anu.edu.au/biographies/name/">973 entries</a> for Indigenous Australians. Of these 973, 149 have been linked to a Wikidata item.</li>
+<li>A person may be linked to a record in the <a href="https://ia.anu.edu.au/">Indigenous Australia</a> database (<a href="https://www.wikidata.org/wiki/Property:P9246">P9246</a>). At the time of writing, the Indigenous Australia database contains <a href="https://ia.anu.edu.au/biographies/name/">973 entries</a> for Indigenous Australians. Of these 973, 304 have been linked to a Wikidata item.</li>
 </ol>
 </section>
 <section id="historical-period" class="level3">
